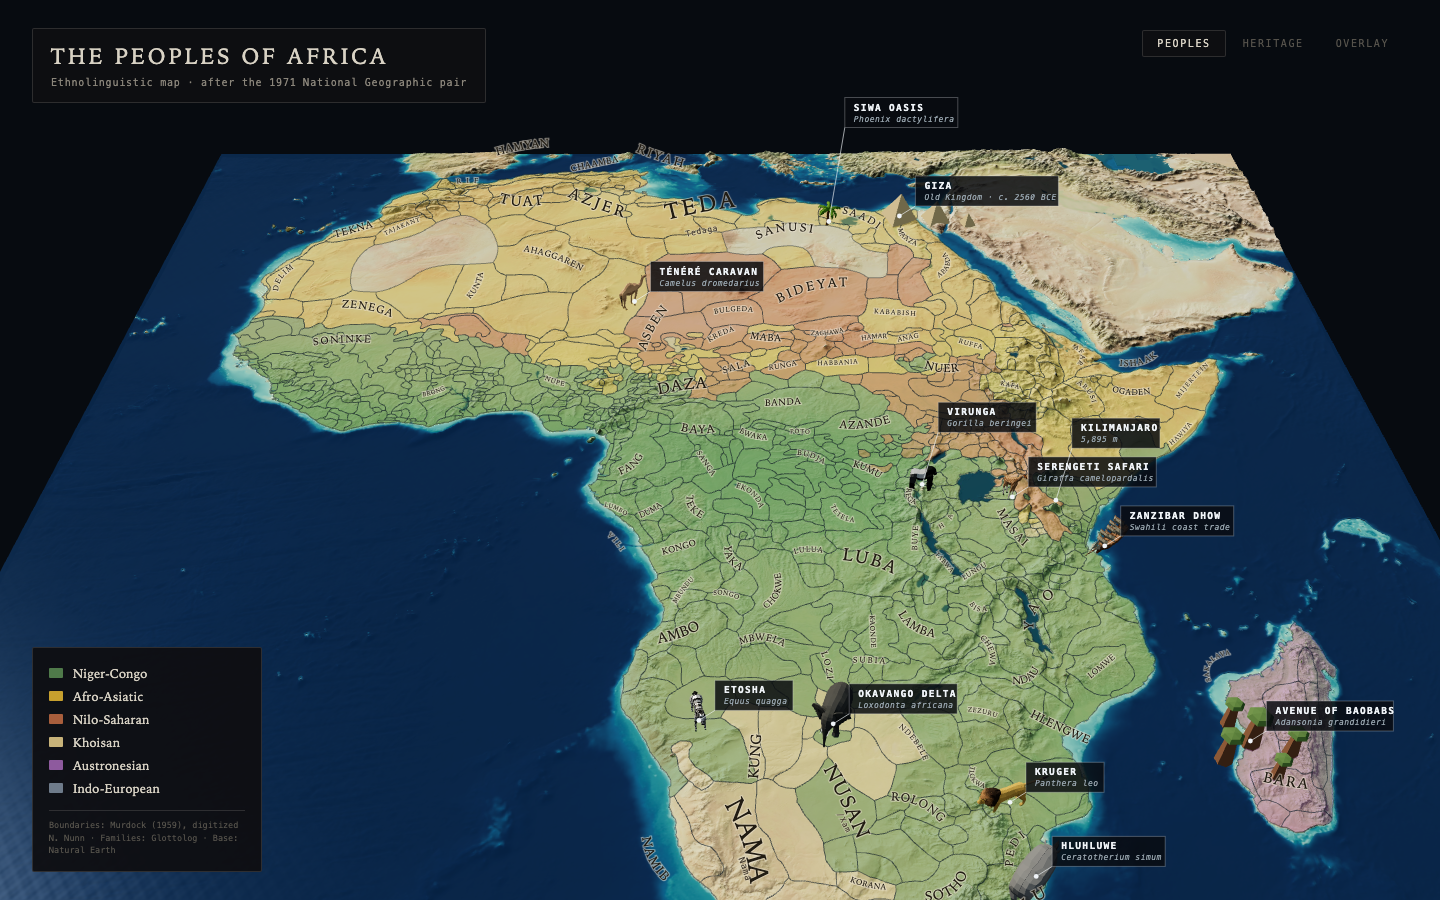
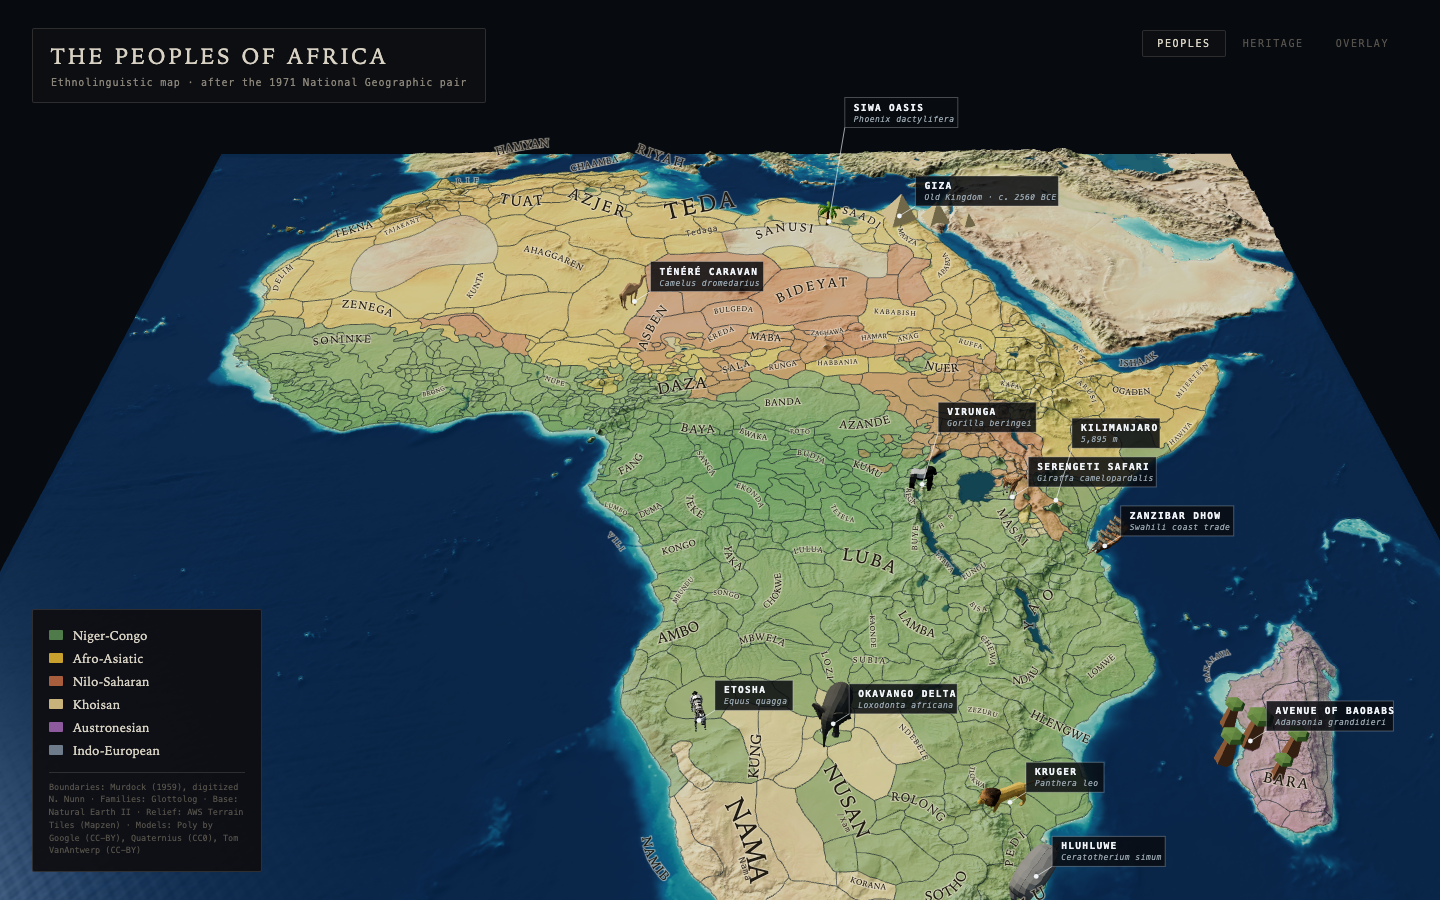
Surface model attribution on the page, not just credits.json (gate item 9)

Changed region(s): [[0.0, 0.6533, 0.1875, 0.9644]]

diff --git a/src/ui/Chrome.tsx b/src/ui/Chrome.tsx
@@ -1,15 +1,28 @@
 // UI layer: everything that is not the globe. Peripheral, recedes.
 // System 3 adds the editorial card; system 4 the layer toggle + scrubber.
 
+import { useEffect, useState } from "react";
 import { FAMILIES } from "../data";
 import { useApp } from "../state";
 import { DetailCard } from "./DetailCard";
 import { LayerControl } from "./LayerControl";
 import { Timeline } from "./Timeline";
 
+interface Credit { title: string; author: string; license: string }
+
 export function Chrome() {
   const peoples = useApp(s => s.peoples);
   const layer = useApp(s => s.layer);
+  const [credits, setCredits] = useState<Record<string, Credit> | null>(null);
+
+  useEffect(() => {
+    fetch(`${import.meta.env.BASE_URL}models/credits.json`)
+      .then(r => r.json()).then(setCredits).catch(() => {});
+  }, []);
+
+  const modelAuthors = credits
+    ? [...new Set(Object.values(credits).map(c => `${c.author} (${c.license})`))].sort()
+    : [];
 
   return (
     <>
@@ -33,7 +46,9 @@ export function Chrome() {
           </div>
         ))}
         <p className="legend-credit">
-          Boundaries: Murdock (1959), digitized N. Nunn · Families: Glottolog · Base: Natural Earth
+          Boundaries: Murdock (1959), digitized N. Nunn · Families: Glottolog ·
+          Base: Natural Earth II · Relief: AWS Terrain Tiles (Mapzen)
+          {modelAuthors.length > 0 && <> · Models: {modelAuthors.join(", ")}</>}
         </p>
       </aside>
 
